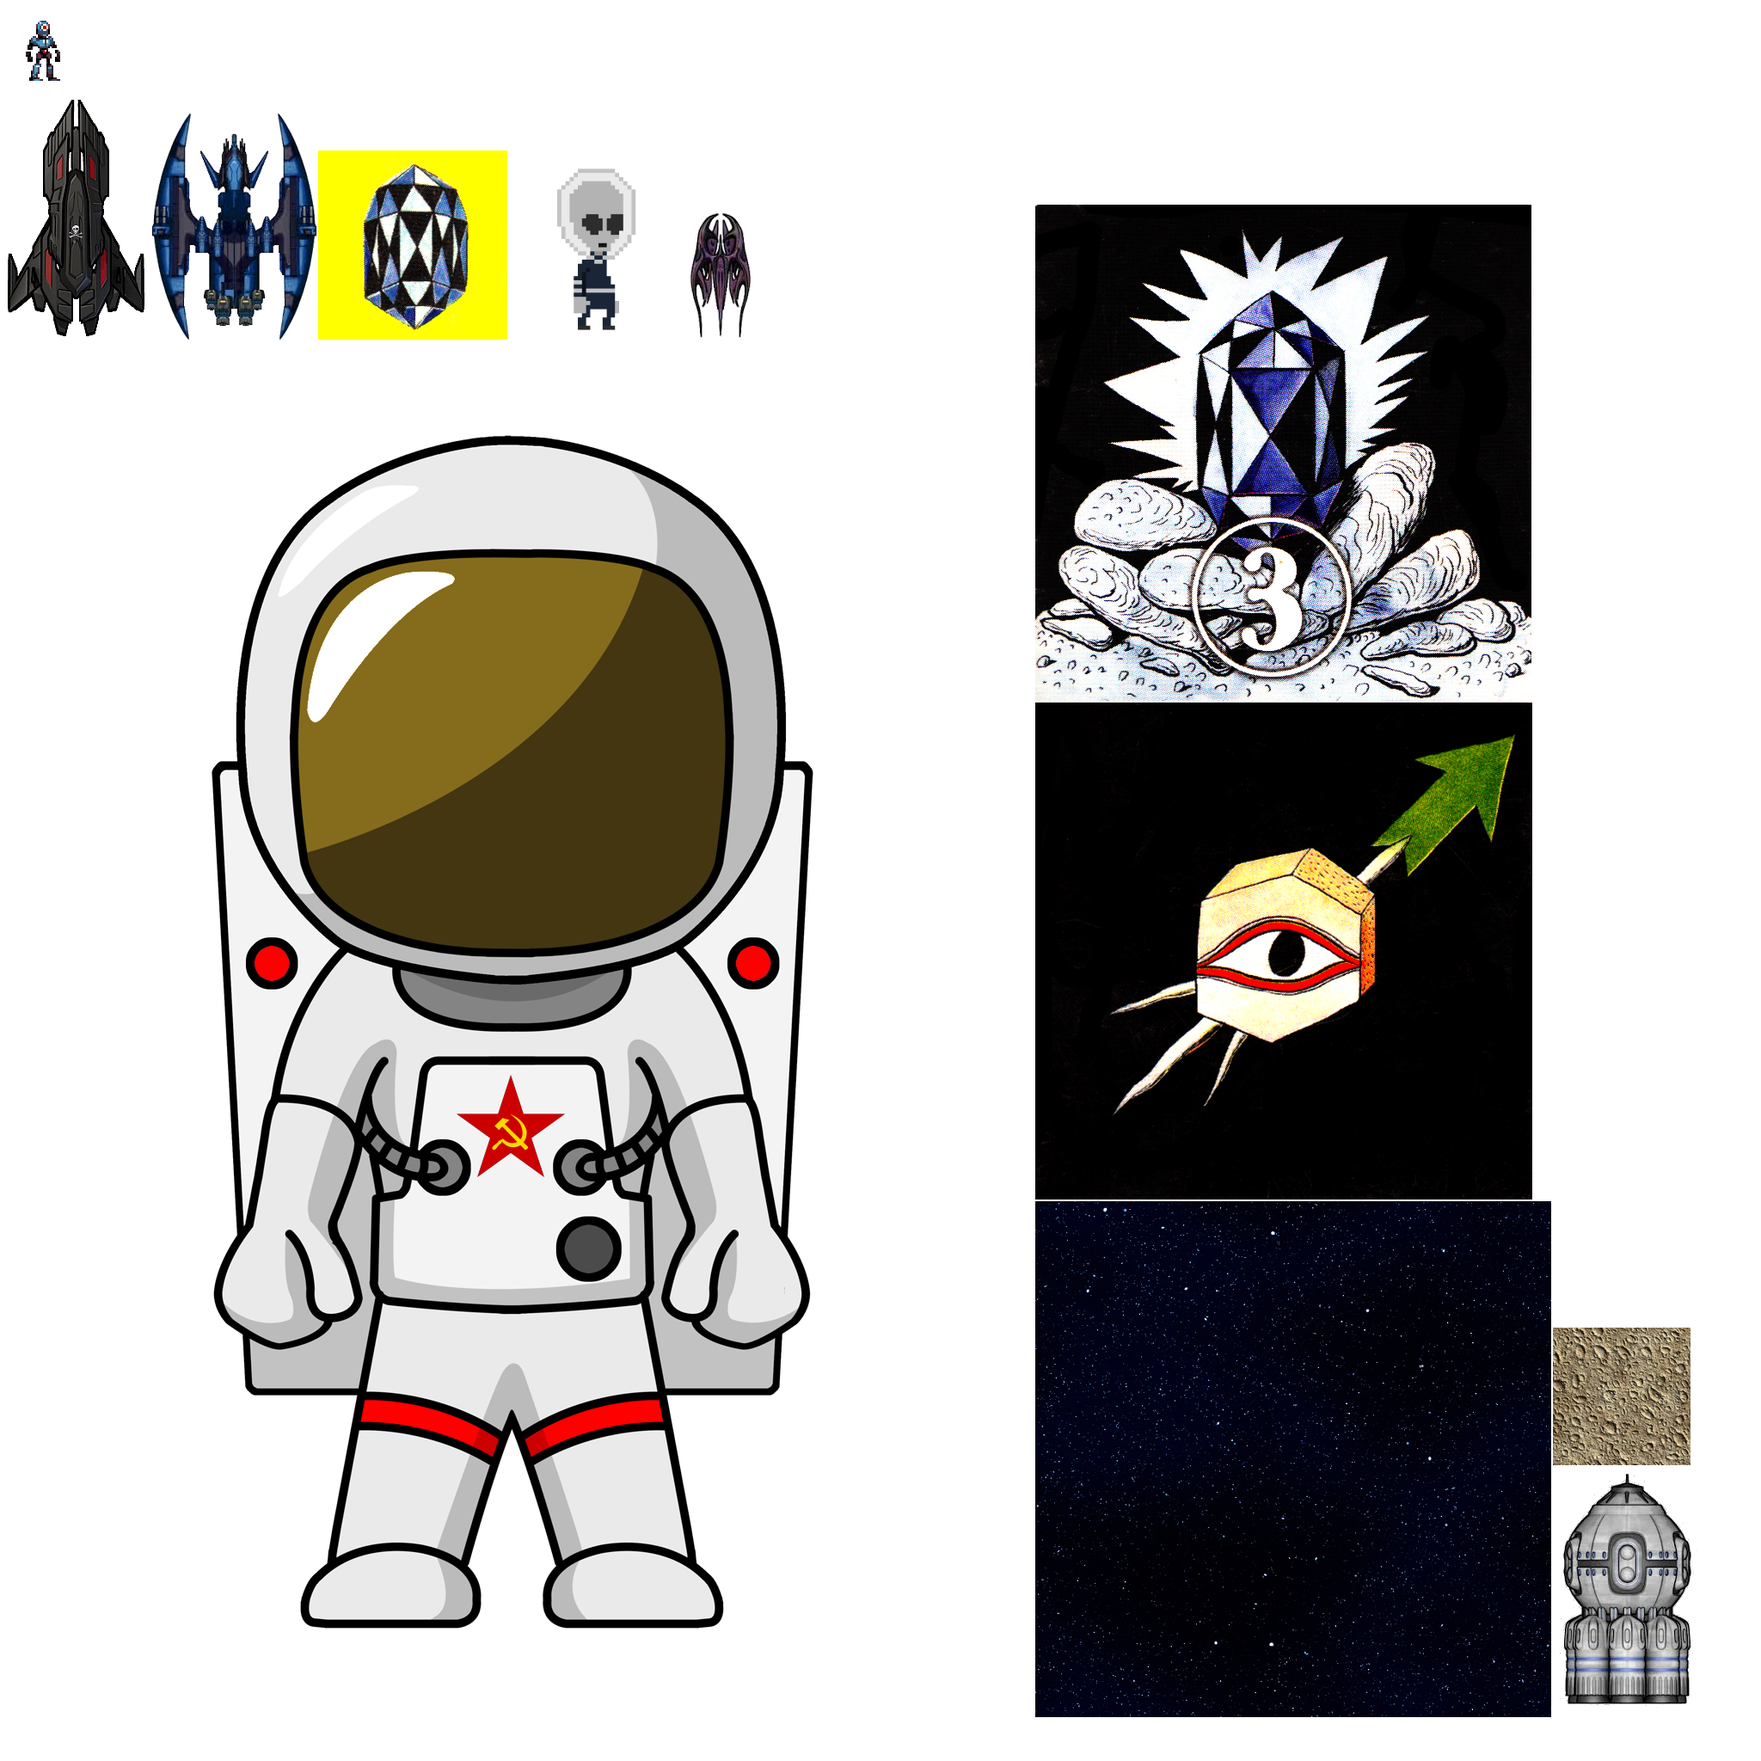
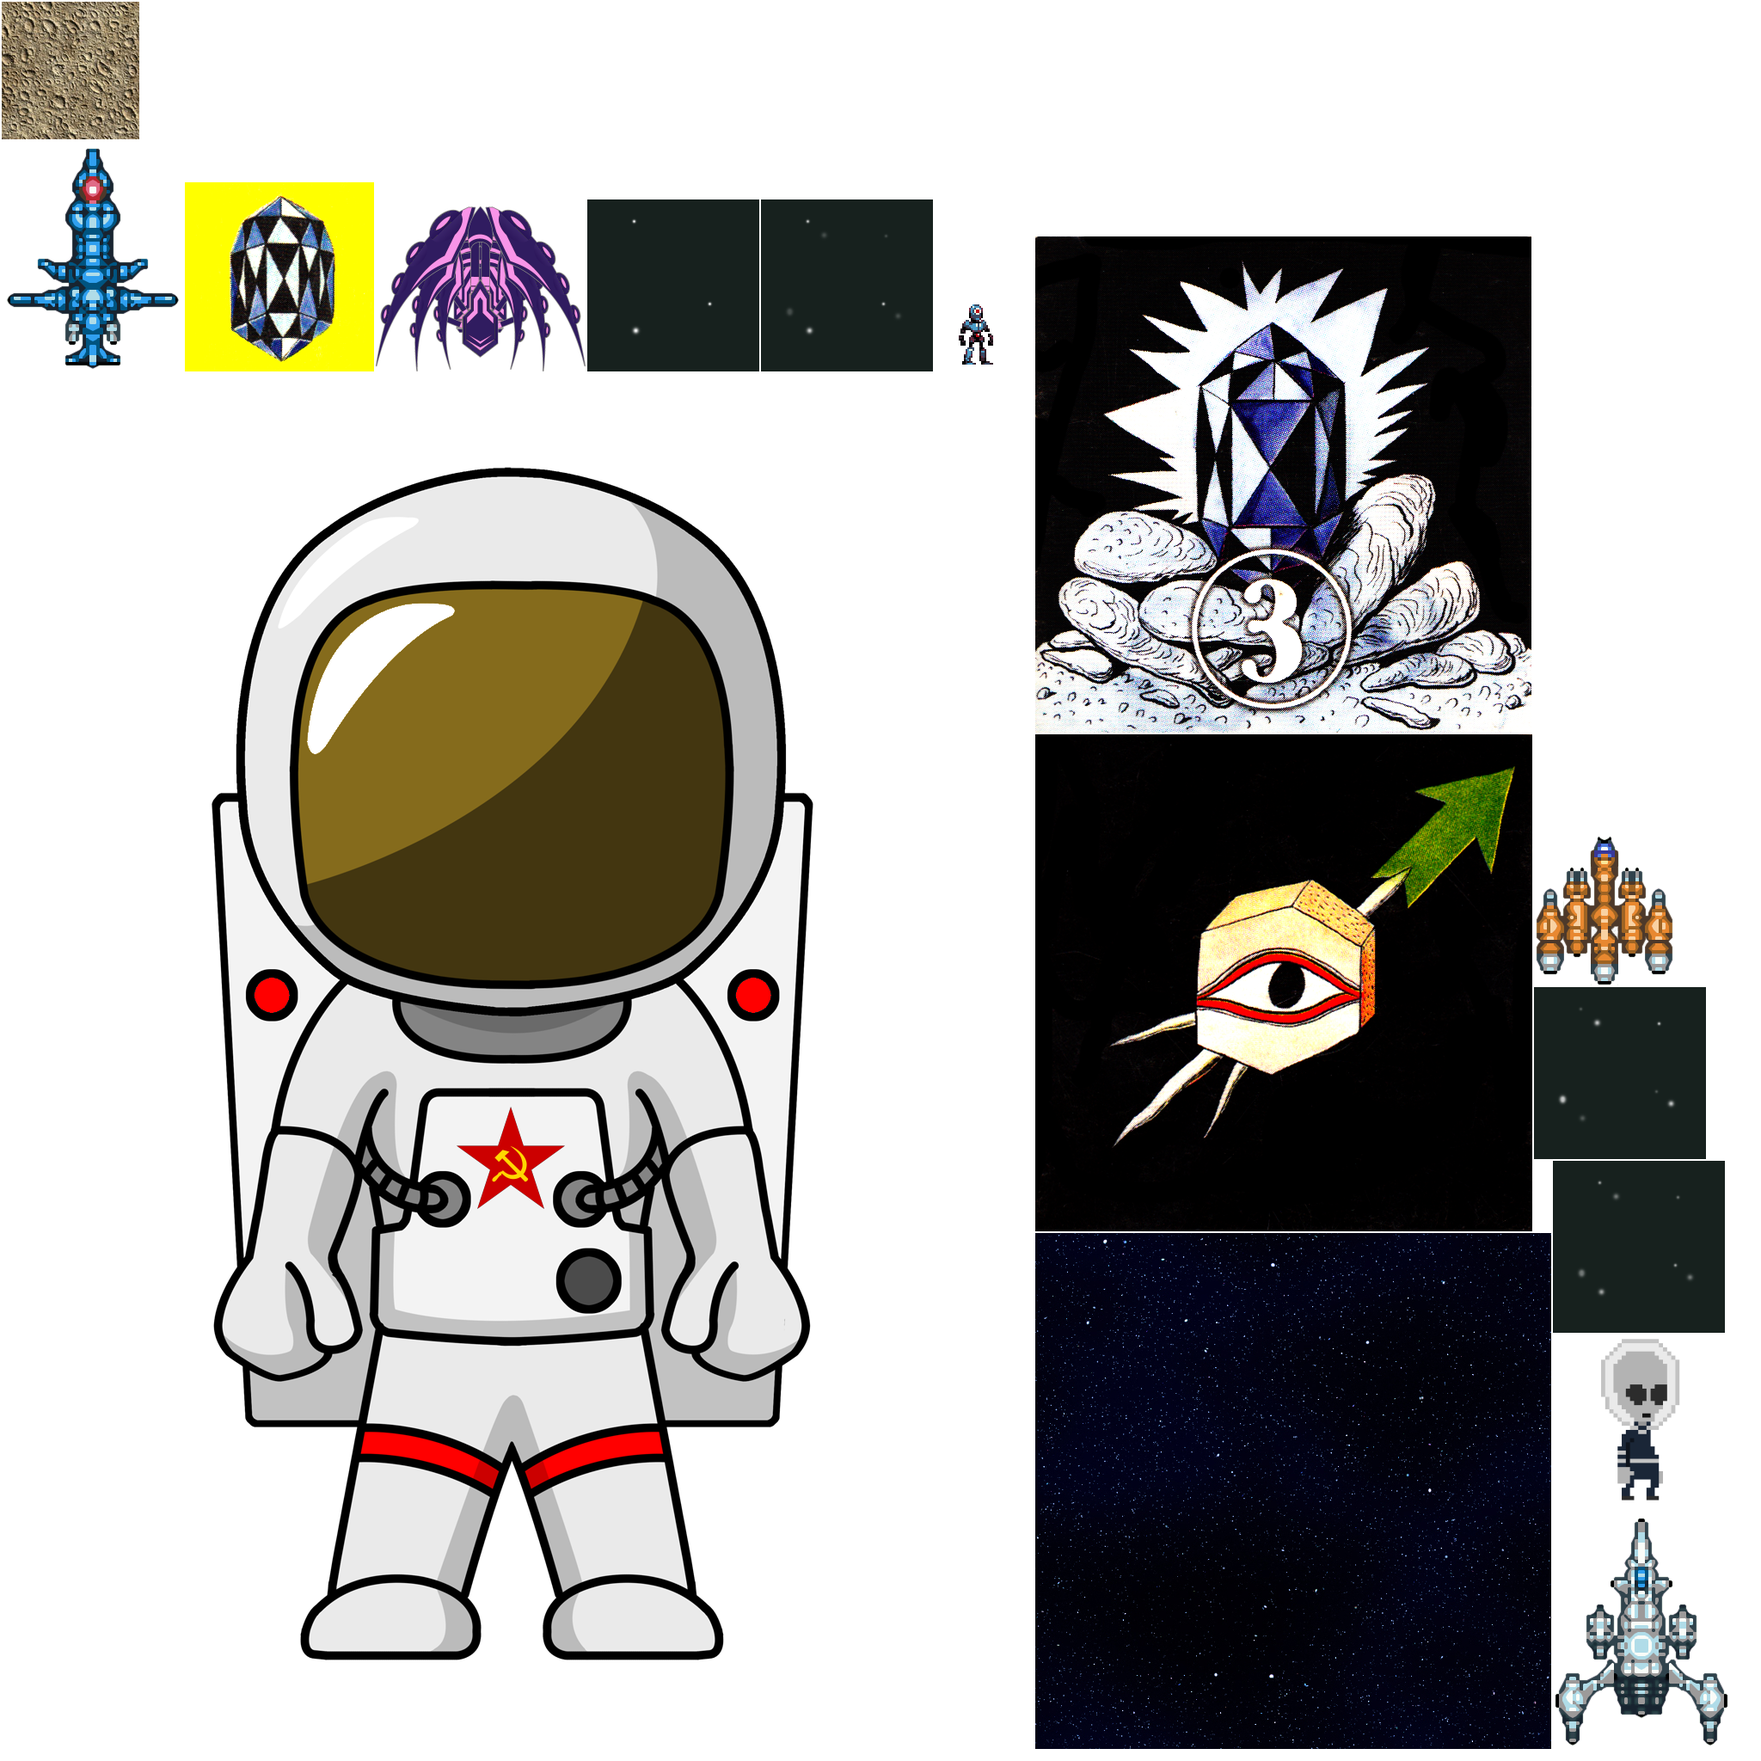
added animation processing

Changed region(s): [[0.5625, 0.0938, 1.0, 1.0], [0.125, 0.25, 0.4688, 0.9688], [0.0, 0.0, 0.5625, 0.2188]]

diff --git a/graphic/src/com/silentgames/graphic/engine/base/Sprite.kt b/graphic/src/com/silentgames/graphic/engine/base/Sprite.kt
@@ -1,12 +1,18 @@
 package com.silentgames.graphic.engine.base
 
-import com.badlogic.gdx.graphics.g2d.Sprite
+import com.badlogic.gdx.graphics.g2d.Animation
+import com.badlogic.gdx.graphics.g2d.TextureRegion
+import com.badlogic.gdx.utils.Array
+import com.silentgames.core.logic.Constants
 import com.silentgames.graphic.Assets
 import com.silentgames.graphic.engine.EngineAxis
 
 abstract class Sprite(axis: EngineAxis,
                       protected val bmpResourceId: String,
                       private val assets: Assets) : Basic() {
+
+    protected var runningAnimation: Animation<TextureRegion>? = null
+        private set
 
     private lateinit var resourceBuffer: ResourceBuffer
 
@@ -19,16 +25,23 @@ abstract class Sprite(axis: EngineAxis,
 
     override fun onResourceBufferAttached(resourceBuffer: ResourceBuffer) {
         this.resourceBuffer = resourceBuffer
+        runningAnimation = initAnimation(getBitmap())
     }
 
-    protected open fun initBitmap(bmpResourceId: String): Sprite {
-        return assets.getSprite(bmpResourceId).apply {
-            flip(false, true)
+    abstract fun initAnimation(textures: Array<TextureRegion>): Animation<TextureRegion>
+
+    protected open fun initBitmap(bmpResourceId: String): Array<TextureRegion> {
+        return Array<TextureRegion>().apply {
+            assets.getTextureRegions(bmpResourceId).forEach {
+                val texture = TextureRegion(it)
+                texture.flip(false, true)
+                add(texture)
+            }
         }
     }
 
-    protected open fun getBitmap(): Sprite {
-        val bitmapCache = resourceBuffer.get(getBitmapId())
+    protected open fun getBitmap(): Array<TextureRegion> {
+        val bitmapCache = resourceBuffer.getList(getBitmapId())
         return if (bitmapCache != null) {
             bitmapCache
         } else {
@@ -38,18 +51,38 @@ abstract class Sprite(axis: EngineAxis,
         }
     }
 
-    protected open fun getResizedBitmap(width: Float, height: Float): Sprite {
-        val bitmap = getBitmap()
-        return if (resized) {
-            bitmap
-        } else {
-            resized = true
-            bitmap.setSize(width, height)
-            resourceBuffer.put(getBitmapId(), bitmap)
-            bitmap
-        }
+    protected open fun getBitmapId(): Int = bmpResourceId.hashCode()
+
+    protected open fun getSize(batchSize: Int, lineCountOfCells: Int) =
+            (batchSize / lineCountOfCells).toFloat()
+
+    protected open fun getCoordinates(axis: EngineAxis, width: Int, height: Int): EngineAxis {
+        val x = cellCenterNumeratorSquare(
+                axis.x,
+                width,
+                getSize(width, Constants.verticalCountOfCells),
+                Constants.verticalCountOfCells
+        )
+        val y = cellCenterNumeratorSquare(
+                axis.y,
+                height,
+                getSize(height, Constants.horizontalCountOfCells),
+                Constants.horizontalCountOfCells
+        )
+        return EngineAxis(x, y)
     }
 
-    protected open fun getBitmapId(): Int = bmpResourceId.hashCode()
+    private fun cellCenterNumeratorSquare(
+            cell: Float,
+            batchSize: Int,
+            viewSize: Float,
+            lineCountOfCells: Int
+    ): Float {
+        return cellCenterNumeratorPoint(cell, batchSize, lineCountOfCells) - viewSize / 2
+    }
+
+    private fun cellCenterNumeratorPoint(cell: Float, batchSize: Int, lineCountOfCells: Int): Float {
+        return 1f / (2 * lineCountOfCells) * batchSize + 1f / lineCountOfCells * cell * batchSize
+    }
 
 }

diff --git a/graphic/src/com/silentgames/graphic/engine/Entity.kt b/graphic/src/com/silentgames/graphic/engine/Entity.kt
@@ -1,6 +1,9 @@
 package com.silentgames.graphic.engine
 
+import com.badlogic.gdx.graphics.g2d.Animation
 import com.badlogic.gdx.graphics.g2d.Batch
+import com.badlogic.gdx.graphics.g2d.TextureRegion
+import com.badlogic.gdx.utils.Array
 import com.silentgames.core.logic.Constants
 import com.silentgames.graphic.Assets
 import com.silentgames.graphic.engine.base.Sprite
@@ -20,32 +23,24 @@ class Entity(
 
     var isMove = false
 
-    override fun draw(batch: Batch, width: Int, height: Int) {
-        val size = ((width / Constants.verticalCountOfCells) * 0.7).toFloat()
-        val sprite = getResizedBitmap(size, size)
+    override fun initAnimation(textures: Array<TextureRegion>): Animation<TextureRegion> =
+            Animation(0.033f, textures, Animation.PlayMode.NORMAL)
 
-        val x = cellCenterNumeratorSquare(
-                axis.x,
-                width,
-                sprite
-        )
-        val y = cellCenterNumeratorSquare(
-                axis.y,
-                height,
-                sprite
-        )
-        sprite.setPosition(x, y)
-
-        sprite.draw(batch)
+    override fun draw(batch: Batch, width: Int, height: Int, stateTime: Float) {
+        val axis = getCoordinates(axis, width, height)
+        runningAnimation?.getKeyFrame(stateTime, true)?.let {
+            batch.draw(
+                    it,
+                    axis.x,
+                    axis.y,
+                    getSize(width, Constants.verticalCountOfCells),
+                    getSize(height, Constants.horizontalCountOfCells)
+            )
+        }
     }
 
-    private fun cellCenterNumeratorSquare(cell: Float, viewSize: Int, bitmap: com.badlogic.gdx.graphics.g2d.Sprite): Float {
-        return cellCenterNumeratorPoint(cell, viewSize) - bitmap.width / 2
-    }
-
-    private fun cellCenterNumeratorPoint(cell: Float, viewSize: Int): Float {
-        val lineCountOfCells = Constants.horizontalCountOfCells
-        return 1f / (2 * lineCountOfCells) * viewSize + 1f / lineCountOfCells * cell * viewSize
+    override fun getSize(batchSize: Int, lineCountOfCells: Int): Float {
+        return super.getSize(batchSize, lineCountOfCells) * 0.7f
     }
 
     fun move(fromAxis: EngineAxis, toAxis: EngineAxis) {

diff --git a/graphic/src/com/silentgames/graphic/engine/ArrowBackground.kt b/graphic/src/com/silentgames/graphic/engine/ArrowBackground.kt
@@ -1,6 +1,7 @@
 package com.silentgames.graphic.engine
 
-import com.badlogic.gdx.graphics.g2d.Sprite
+import com.badlogic.gdx.graphics.g2d.Batch
+import com.silentgames.core.logic.Constants
 import com.silentgames.core.logic.ecs.component.RotateAngle
 import com.silentgames.graphic.Assets
 
@@ -11,20 +12,33 @@ class ArrowBackground(
         private val rotateAngle: RotateAngle
 ) : Background(axis, bmpId, assets) {
 
-    override fun getResizedBitmap(width: Float, height: Float): Sprite {
-        return super.getResizedBitmap(width, height).rotateBitmap(rotateAngle)
+    override fun draw(batch: Batch, width: Int, height: Int, stateTime: Float) {
+        val axis = getCoordinates(axis, width, height)
+        runningAnimation?.getKeyFrame(stateTime, true)?.let {
+            val viewWidth = getSize(width, Constants.verticalCountOfCells)
+            val viewHeight = getSize(height, Constants.horizontalCountOfCells)
+            batch.draw(
+                    it,
+                    axis.x,
+                    axis.y,
+                    viewWidth / 2,
+                    viewHeight / 2,
+                    viewWidth,
+                    viewHeight,
+                    1f,
+                    1f,
+                    rotate(rotateAngle)
+            )
+        }
     }
 
-    private fun Sprite.rotateBitmap(rotateAngle: RotateAngle): Sprite {
-        this.setOriginCenter()
-        when (rotateAngle) {
-            RotateAngle.DEGREES90 -> this.rotation = 90f
-            RotateAngle.DEGREES180 -> this.rotation = 180f
-            RotateAngle.DEGREES270 -> this.rotation = 270f
-            RotateAngle.DEGREES0 -> this.rotation = 0f
-        }
-        return this
-    }
+    private fun rotate(rotateAngle: RotateAngle) =
+            when (rotateAngle) {
+                RotateAngle.DEGREES90 -> 90f
+                RotateAngle.DEGREES180 -> 180f
+                RotateAngle.DEGREES270 -> 270f
+                RotateAngle.DEGREES0 -> 0f
+            }
 
     override fun getBitmapId(): Int = (super.getBitmapId().toString() + rotateAngle.name).hashCode()
 

diff --git a/graphic/src/com/silentgames/graphic/engine/Background.kt b/graphic/src/com/silentgames/graphic/engine/Background.kt
@@ -1,6 +1,9 @@
 package com.silentgames.graphic.engine
 
+import com.badlogic.gdx.graphics.g2d.Animation
 import com.badlogic.gdx.graphics.g2d.Batch
+import com.badlogic.gdx.graphics.g2d.TextureRegion
+import com.badlogic.gdx.utils.Array
 import com.silentgames.core.logic.Constants
 import com.silentgames.graphic.Assets
 import com.silentgames.graphic.engine.base.Sprite
@@ -11,30 +14,20 @@ open class Background(
         assets: Assets
 ) : Sprite(axis, bmpId, assets) {
 
-    override fun draw(batch: Batch, width: Int, height: Int) {
-        val size = (width / Constants.verticalCountOfCells).toFloat()
-        val sprite = getResizedBitmap(size, size)
+    override fun initAnimation(textures: Array<TextureRegion>): Animation<TextureRegion> =
+            Animation(4f, textures, Animation.PlayMode.LOOP_PINGPONG)
 
-        val x = cellCenterNumeratorSquare(
-                axis.x,
-                width,
-                sprite
-        )
-        val y = cellCenterNumeratorSquare(
-                axis.y,
-                height,
-                sprite
-        )
-        sprite.setPosition(x, y)
-        sprite.draw(batch)
+    override fun draw(batch: Batch, width: Int, height: Int, stateTime: Float) {
+        val axis = getCoordinates(axis, width, height)
+        runningAnimation?.getKeyFrame(stateTime, true)?.let {
+            batch.draw(
+                    it,
+                    axis.x,
+                    axis.y,
+                    getSize(width, Constants.verticalCountOfCells),
+                    getSize(height, Constants.horizontalCountOfCells)
+            )
+        }
     }
 
-    private fun cellCenterNumeratorSquare(cell: Float, viewSize: Int, bitmap: com.badlogic.gdx.graphics.g2d.Sprite): Float {
-        return cellCenterNumeratorPoint(cell, viewSize) - bitmap.width / 2
-    }
-
-    private fun cellCenterNumeratorPoint(cell: Float, viewSize: Int): Float {
-        val lineCountOfCells = Constants.horizontalCountOfCells
-        return 1f / (2 * lineCountOfCells) * viewSize + 1f / lineCountOfCells * cell * viewSize
-    }
 }

diff --git a/graphic/src/com/silentgames/graphic/Assets.kt b/graphic/src/com/silentgames/graphic/Assets.kt
@@ -9,16 +9,18 @@ import com.badlogic.gdx.graphics.Color
 import com.badlogic.gdx.graphics.g2d.BitmapFont
 import com.badlogic.gdx.graphics.g2d.Sprite
 import com.badlogic.gdx.graphics.g2d.TextureAtlas
+import com.badlogic.gdx.graphics.g2d.TextureRegion
 import com.badlogic.gdx.graphics.g2d.freetype.FreeTypeFontGenerator
 import com.badlogic.gdx.graphics.g2d.freetype.FreeTypeFontGeneratorLoader
 import com.badlogic.gdx.graphics.g2d.freetype.FreetypeFontLoader
 import com.badlogic.gdx.scenes.scene2d.ui.Skin
+import com.badlogic.gdx.utils.Array
 import com.badlogic.gdx.utils.ObjectMap
 import kotlin.math.min
 
 class Assets {
 
-    private val manager: AssetManager = AssetManager()
+    val manager: AssetManager = AssetManager()
 
     private val fontChars = "абвгдежзийклмнопрстуфхцчшщъыьэюяabcdefghijklmnopqrstuvwxyzАБВГДЕЖЗИЙКЛМНОПРСТУФХЦЧШЩЪЫЬЭЮЯABCDEFGHIJKLMNOPQRSTUVWXYZ0123456789][_!$%#@|\\/?-+±=()*&.;:,{}\"´`'<>"
     private val skinResources = ObjectMap<String, Any>()
@@ -33,7 +35,17 @@ class Assets {
         manager.get(skinDescriptor)
     }
 
-    fun getSprite(name: String): Sprite = Sprite(uiSkin.getSprite(name.removeExtension()))
+    fun getSprite(name: String): Sprite =
+            Sprite(getTextureRegions(name).first() ?: uiSkin.getSprite(name.removeExtension()))
+
+    fun getTextureRegions(name: String): Array<TextureRegion> {
+        return uiSkin.getRegions(name.removeExtension())
+                ?: Array<TextureRegion>().apply { add(getTextureRegion(name)) }
+    }
+
+    private fun getTextureRegion(name: String): TextureRegion {
+        return uiSkin.getRegion(name.removeExtension())
+    }
 
     private fun String.removeExtension() = substringBeforeLast(".")
 

diff --git a/graphic/src/com/silentgames/graphic/RenderSystem.kt b/graphic/src/com/silentgames/graphic/RenderSystem.kt
@@ -1,5 +1,6 @@
 package com.silentgames.graphic
 
+import com.badlogic.gdx.Gdx
 import com.badlogic.gdx.graphics.g2d.Batch
 import com.badlogic.gdx.utils.viewport.Viewport
 import com.silentgames.core.logic.Constants
@@ -54,6 +55,9 @@ class RenderSystem(
         })
     }
 
+
+    private var stateTime = 0f
+
     override fun execute(gameState: GameState) {
         super.execute(gameState)
 
@@ -70,10 +74,11 @@ class RenderSystem(
         batch.begin()
 
 //        batch.draw(com.badlogic.gdx.graphics.Texture("space_texture.jpg"), 0f, 0f, camera.viewportWidth, camera.viewportHeight)
+        stateTime += Gdx.graphics.deltaTime
 
         scene?.getLayers()?.forEach { layer ->
             for (tmp in layer.data) {
-                tmp.draw(batch, width, height)
+                tmp.draw(batch, width, height, stateTime)
             }
         }
 

diff --git a/graphic/src/com/silentgames/graphic/engine/base/ResourceBuffer.kt b/graphic/src/com/silentgames/graphic/engine/base/ResourceBuffer.kt
@@ -1,16 +1,17 @@
 package com.silentgames.graphic.engine.base
 
-import com.badlogic.gdx.graphics.g2d.Sprite
+import com.badlogic.gdx.graphics.g2d.TextureRegion
+import com.badlogic.gdx.utils.Array
 
 class ResourceBuffer {
 
-    private var bitmapBuffer: HashMap<Int, Sprite> = HashMap()
+    private var bitmapBuffer: HashMap<Int, Array<TextureRegion>> = HashMap()
 
-    fun put(id: Int, bitmap: Sprite) {
-        bitmapBuffer.put(id, bitmap)
+    fun put(id: Int, bitmap: Array<TextureRegion>) {
+        bitmapBuffer[id] = bitmap
     }
 
-    fun get(id: Int): Sprite? =
+    fun getList(id: Int): Array<TextureRegion>? =
             bitmapBuffer.get(id)
 
     fun clear() {

diff --git a/core/src/com/silentgames/core/logic/ecs/entity/cell/SpaceCell.kt b/core/src/com/silentgames/core/logic/ecs/entity/cell/SpaceCell.kt
@@ -13,7 +13,7 @@ import com.silentgames.core.logic.ecs.component.Texture
  */
 class SpaceCell(
         position: Axis,
-        imageName: String = "space_texture.jpg"
+        imageName: String = "space.png"
 ) : CellEcs(
         Position(position),
         Description(Strings.space_cell_name.getString(), Strings.space_cell_description.getString()),

diff --git a/graphic/src/com/silentgames/graphic/engine/Grid.kt b/graphic/src/com/silentgames/graphic/engine/Grid.kt
@@ -5,7 +5,7 @@ import com.silentgames.graphic.engine.base.Basic
 
 class Grid : Basic() {
 
-    override fun draw(batch: Batch, width: Int, height: Int) {
+    override fun draw(batch: Batch, width: Int, height: Int, stateTime: Float) {
 
 //        batch.end()
 //        val shapeRenderer = ShapeRenderer()

diff --git a/graphic/src/com/silentgames/graphic/engine/base/Basic.kt b/graphic/src/com/silentgames/graphic/engine/base/Basic.kt
@@ -11,6 +11,6 @@ abstract class Basic {
         onUpdated.invoke(false)
     }
 
-    internal abstract fun draw(batch: Batch, width: Int, height: Int)
+    internal abstract fun draw(batch: Batch, width: Int, height: Int, stateTime: Float)
 
 }
